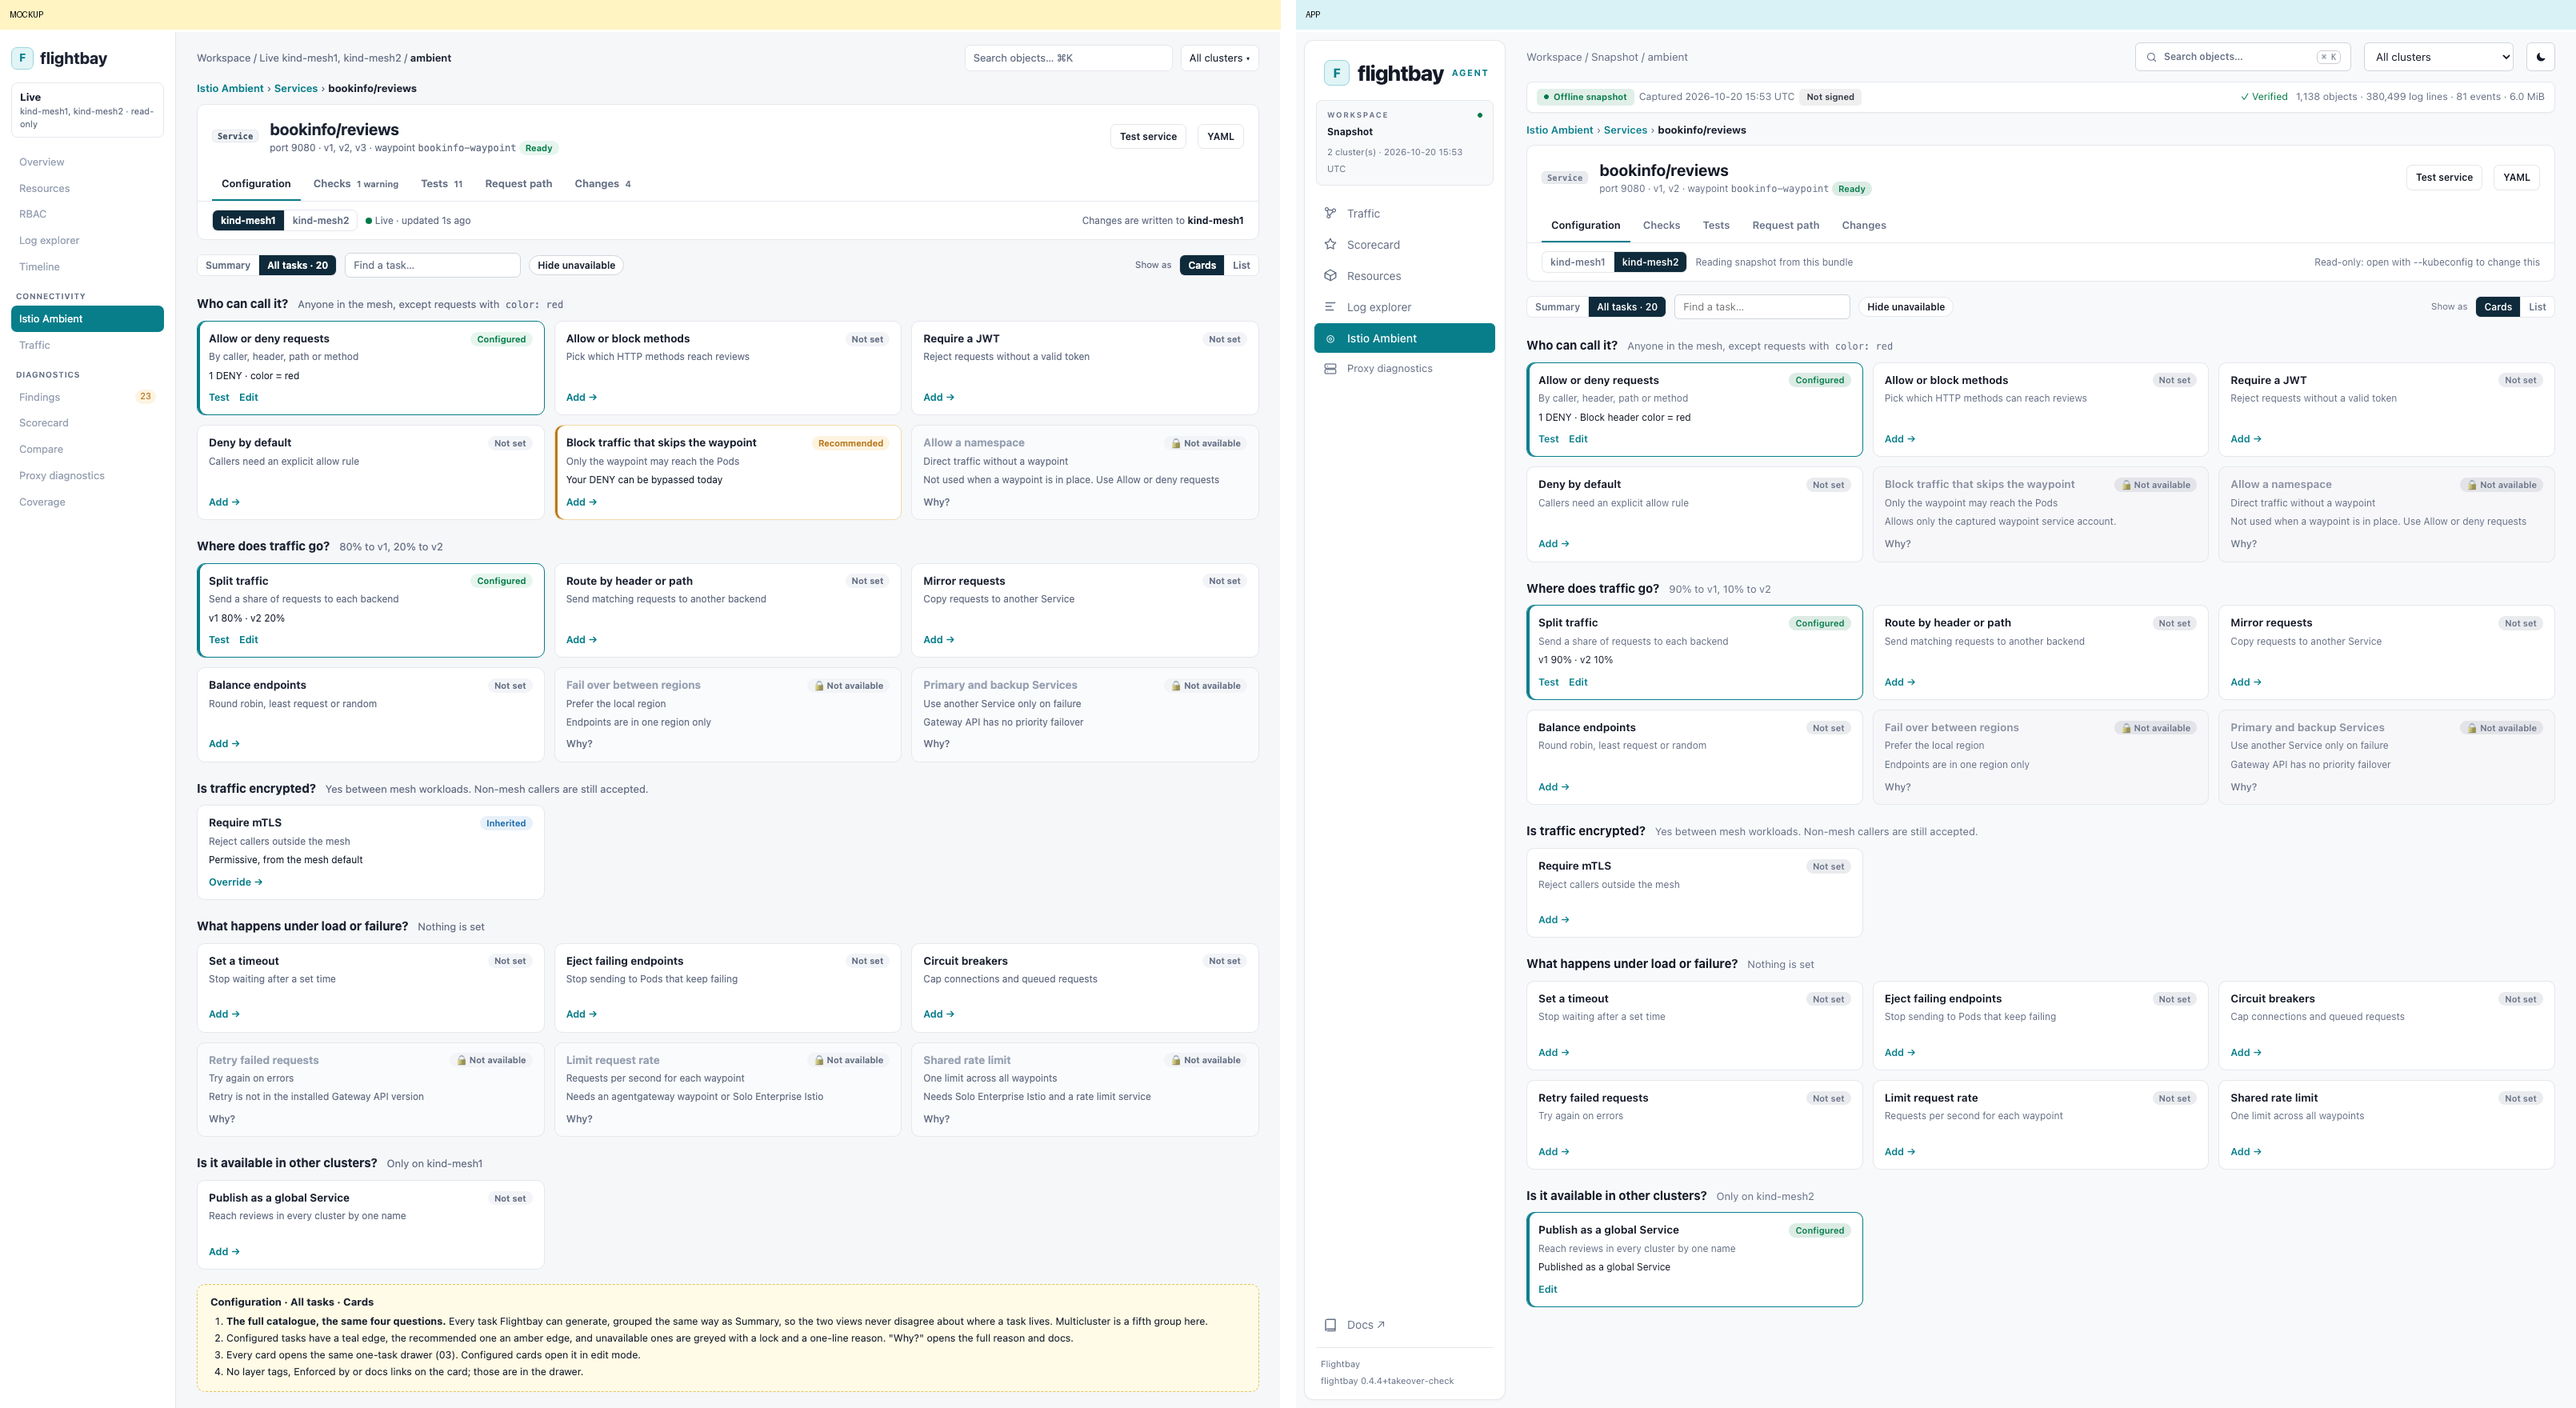
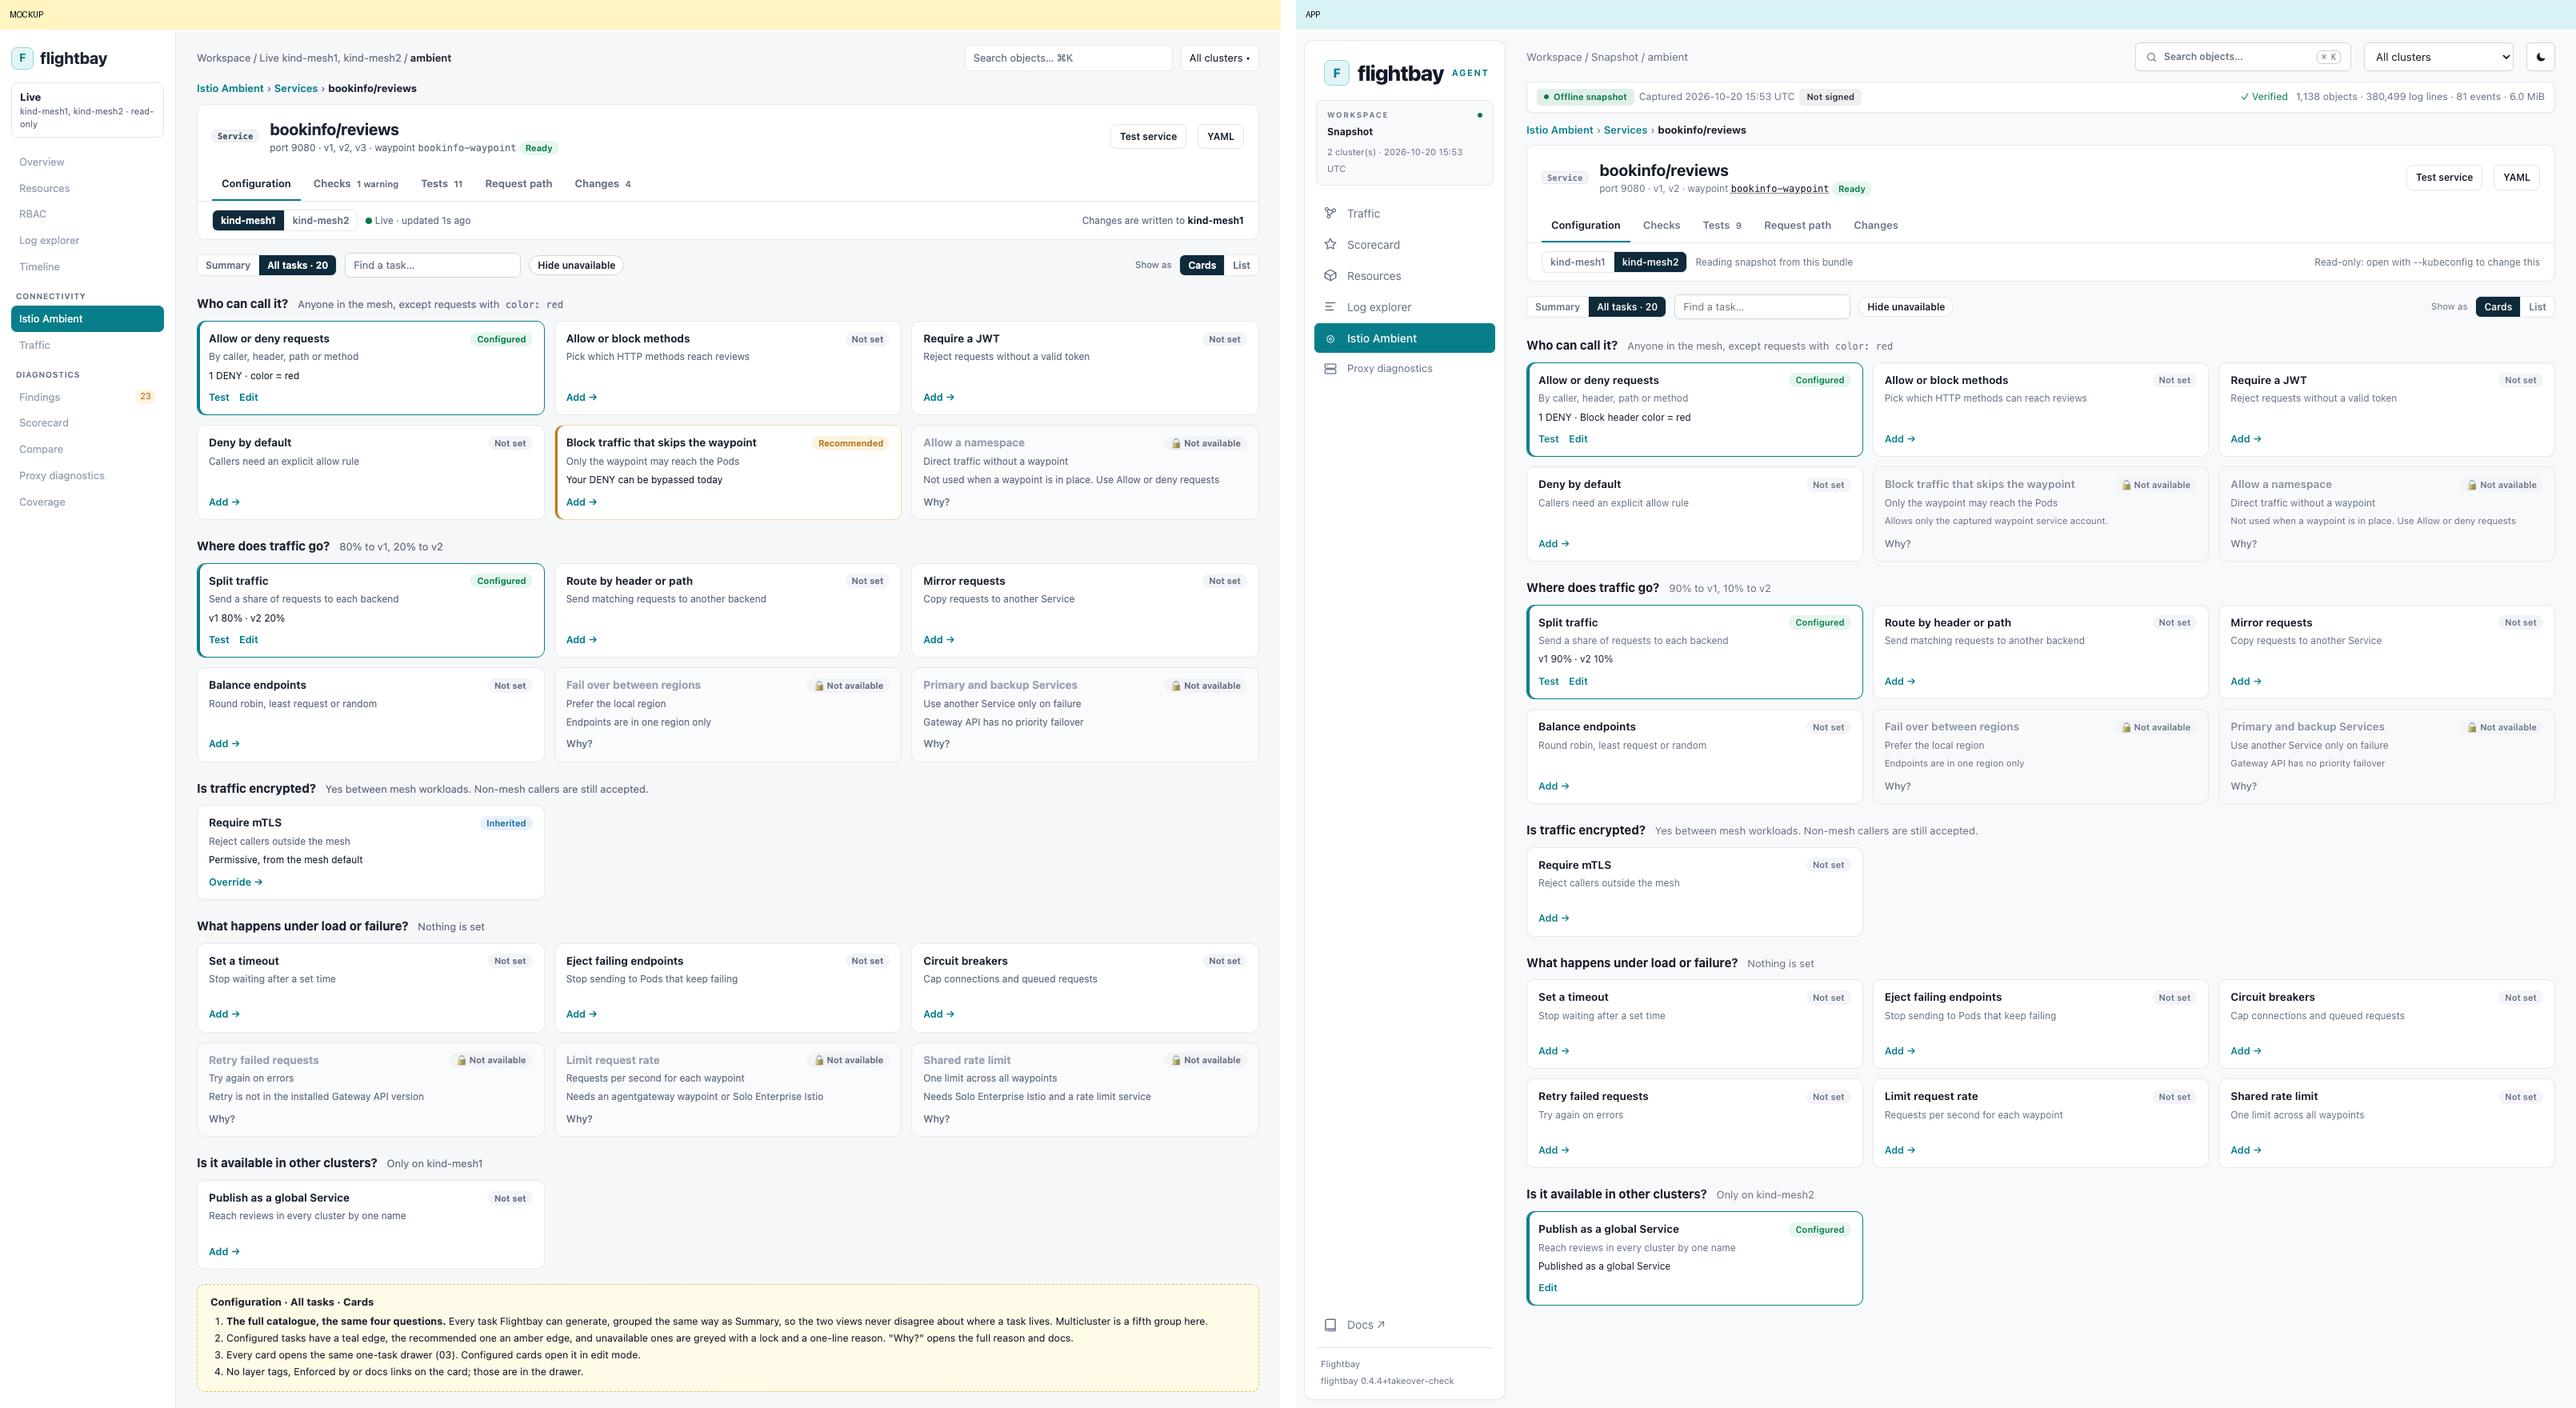
Ambient v2: waypoint popover, live-check fixes, pure-function tests, UX check script

diff --git a/web/ambient-service.js b/web/ambient-service.js
@@ -25,7 +25,7 @@ function am2Crumb(ref) {
 
 function am2WaypointMeta(h) {
   if (!h?.waypoint) return 'no waypoint';
-  return `waypoint <span class="am2-mono">${esc(h.waypoint.name)}</span> ${h.waypoint.ready ? am2Pill('ok', 'Ready') : `<span title="${esc(h.waypoint.reason)}">${am2Pill('warn', 'Not ready')}</span>`}`;
+  return `waypoint <span class="am2-whywrap"><a href="#" class="am2-mono am2-wplink" data-am2-wp>${esc(h.waypoint.name)}</a><div class="am2-pop am2-wppop" hidden><div class="am2-pop-i"><b>${esc(h.waypoint.namespace)}/${esc(h.waypoint.name)}</b><div>${h.waypoint.ready ? 'Accepted and programmed.' : esc(h.waypoint.reason || 'Not ready.')}</div></div><div style="margin-top:8px"><a class="am2-lnk" href="${am2Hash({...am2Route(), drawer: 'add:waypoint'})}">Change waypoint…</a></div></div></span> ${h.waypoint.ready ? am2Pill('ok', 'Ready') : `<span title="${esc(h.waypoint.reason)}">${am2Pill('warn', 'Not ready')}</span>`}`;
 }
 
 function am2ChecksLabel(data, ref) {
@@ -110,6 +110,7 @@ function am2Card(cfg, g, ctx) {
     else if (t.hint && t.status === 'configured' && !hint) hint = `<div class="am2-hint"><span>!</span><span style="flex:1">${esc(t.hint)}</span></div>`;
   }
   for (const o of cfg.other || []) if (o.group === g.id) items.push({html: `<div class="am2-item">${am2Pill('mut', 'Other')}<div class="am2-nm"><div class="am2-l">Other configuration</div><div class="am2-s">${esc(o.ref?.kind)} · ${esc(o.ref?.name)}</div></div><a class="am2-lnk" href="#" data-am2-open='${esc(JSON.stringify(o.ref))}'>Open</a></div>`});
+  if (g.id === 'access' && !cfg.header?.waypoint && !hint) hint = `<div class="am2-hint"><span>!</span><span style="flex:1">L7 rules need a waypoint.</span><a class="am2-lnk" href="${am2Hash({...ctx.route, drawer: 'add:waypoint'})}">Set one up →</a></div>`;
   const order = AM2_ADD_ORDER[g.id] || [];
   const addable = order.map(id => tasks.find(t => t.id === id)).filter(t => t && !['unavailable', 'needs-waypoint', 'recommended'].includes(t.status) && !(t.status === 'configured' && t.id !== 'access-rule' && t.id !== 'timeouts'));
   const shown = addable.slice(0, 3), more = addable.length > 3;
@@ -235,6 +236,8 @@ function am2ServiceAfter(route) {
     if (t.closest('[data-am2-yaml]')) { openObject({...svcObj(), kind: 'Service'}, 'yaml'); return; }
     const open = t.closest('[data-am2-open]');
     if (open) { e.preventDefault(); openObject(JSON.parse(open.dataset.am2Open)); return; }
+    const wp = t.closest('[data-am2-wp]');
+    if (wp) { e.preventDefault(); const pop = wp.parentElement.querySelector('.am2-pop'), was = pop.hidden; root.querySelectorAll('.am2-pop').forEach(p => { p.hidden = true; }); pop.hidden = !was; return; }
     const why = t.closest('[data-am2-why]');
     if (why) { e.preventDefault(); const pop = why.parentElement.querySelector('.am2-pop'); const was = pop.hidden; root.querySelectorAll('.am2-pop').forEach(p => p.hidden = true); pop.hidden = !was; return; }
     if (!t.closest('.am2-whywrap')) root.querySelectorAll('.am2-pop').forEach(p => p.hidden = true);

diff --git a/web/bookinfo-demo.js b/web/bookinfo-demo.js
@@ -66,7 +66,7 @@ async function bdRun(fn){if(BD.busy)return;BD.busy=true;BD.error='';try{await re
 async function bdRefresh(){BD.catalog=await api('api/ambient/bookinfo',{namespace:BD.namespace});S.ambient.inventory=null;RP.options=null;}
 function bookinfoAfter(){
   bdWireResources();
-  document.querySelectorAll('[data-amtab]').forEach(b=>b.onclick=()=>{S.ambient.tab=b.dataset.amtab;render();});$('#am-start-new').onclick=()=>amClear(true);$('#am-refresh').onclick=()=>bdRun(async()=>{await bdRefresh();});
+  document.querySelectorAll('[data-amtab]').forEach(b=>b.onclick=()=>{S.ambient.tab=b.dataset.amtab;render();});if($('#am-start-new'))$('#am-start-new').onclick=()=>amClear(true);if($('#am-refresh'))$('#am-refresh').onclick=()=>bdRun(async()=>{await bdRefresh();});
   $('#bd-namespace').onchange=e=>{BD.namespace=e.target.value.trim();try{localStorage.setItem('flightbay.bookinfo.namespace',BD.namespace);}catch{}BD.catalog=null;bdInvalidate();render();};document.querySelectorAll('[data-bdcluster]').forEach(b=>b.onchange=()=>{BD.selected[b.dataset.bdcluster]=b.checked;bdInvalidate();if(!BD.catalog.clusters.filter(c=>BD.selected[c.cluster]).every(c=>c.globalSupported))BD.global=false;render();});
   document.querySelectorAll('[name="bd-waypoint-scope"]').forEach(b=>b.onchange=()=>{if(b.checked){BD.waypointScope=b.value;bdInvalidate();render();}});$('#bd-waypoint-name').onchange=e=>{BD.waypointName=e.target.value.trim();bdInvalidate();render();};
   document.querySelectorAll('[data-bdclass]').forEach(b=>b.onchange=()=>{BD.classes[b.dataset.bdclass]=b.value;bdInvalidate();render();});$('#bd-global').onchange=e=>{BD.global=e.target.checked;bdInvalidate();render();};$('#bd-traffic').onchange=e=>{BD.traffic=e.target.checked;bdInvalidate();render();};

diff --git a/web/ambient-policies.js b/web/ambient-policies.js
@@ -8,7 +8,7 @@ const AM2_MANAGED = {flightbay: ['tl', 'Flightbay'], helm: ['mut', 'Helm'], argo
 const AM2_STATE = {applied: ['ok', 'Applied'], accepted: ['ok', 'Accepted'], programmed: ['ok', 'Programmed'], missing: ['mut', 'Missing'], differs: ['warn', 'Differs'], 'not-enforced': ['warn', 'Not enforced']};
 
 function am2MidEllipsis(name, max = 32) {
-  return name.length <= max ? name : name.slice(0, 21) + '…' + name.slice(-8);
+  return name.length <= max ? name : name.slice(0, 19) + '…' + name.slice(-10);
 }
 
 function am2PolQuery() {

diff --git a/web/ambient-v2.css b/web/ambient-v2.css
@@ -191,3 +191,4 @@ color:var(--am2-ink);font:13px/1.45 var(--sans)}
 .am2 td.am2-mono{white-space:nowrap}
 .am2-grid>div:first-child{display:flex;flex-direction:column}.am2-grid>div:first-child>.am2-card:last-child{flex:1}
 #modal-root .modal-backdrop{z-index:90}
+.am2-wppop{right:auto;left:0;bottom:auto;top:calc(100% + 6px);width:300px}.am2 a.am2-wplink{color:var(--am2-ink);text-decoration:underline dotted}

diff --git a/docs/ux/ambient/review/04-authorizationpolicy-tests/report.md b/docs/ux/ambient/review/04-authorizationpolicy-tests/report.md
@@ -1,0 +1,36 @@
+# 04-authorizationpolicy-tests
+
+- URL: `http://127.0.0.1:47800/?token=ambient-ui-test#ambient?obj=kind-mesh2/AuthorizationPolicy/bookinfo/flightbay-test-f4a039e06a0956fc-deny-rule&otab=tests`
+- Mockup: `/Users/thomasorourke/code/solo/flightbay/docs/ux/ambient/04-authorizationpolicy-tests.png`
+- Side by side: `/Users/thomasorourke/code/solo/flightbay/docs/ux/ambient/ux-review/04-authorizationpolicy-tests/side-by-side.png`
+
+| Result | Severity | Role | Label |
+|---|---|---|---|
+| ok | should | pill | DENY |
+| ok | must | button | YAML |
+| ok | must | button | Edit |
+| MISSING | must | button | Undo |
+| ok | must | tab | Summary |
+| ok | must | tab | Tests |
+| ok | must | tab | Explain a request |
+| ok | must | tab | History |
+| ok | must | heading | The rule, in words |
+| MISSING | must | heading | Other policies that also decide for reviews |
+| ok | should | pill | ALLOW |
+| ok | must | heading | Send test requests from |
+| ok | must | chip | Temporary pod |
+| ok | must | chip | Outside the mesh |
+| ok | must | heading | Run on |
+| ok | must | heading | Test cases |
+| ok | must | button | + Add case |
+| ok | must | button | Generate from rule |
+| ok | must | button | ▶ Run all |
+| ok | must | column | Request |
+| ok | must | column | Why this case |
+| ok | must | column | Expect |
+| ok | must | column | Got |
+| ok | must | column | Decided by |
+| ok | must | button | Log |
+
+Labels the app shows that are not in the mockup are not detected by this script.
+Compare the side-by-side image for extra elements, layout, spacing and visual weight.

diff --git a/docs/ux/ambient/review/05-httproute-tests/report.md b/docs/ux/ambient/review/05-httproute-tests/report.md
@@ -1,0 +1,28 @@
+# 05-httproute-tests
+
+- URL: `http://127.0.0.1:47800/?token=ambient-ui-test#ambient?obj=kind-mesh2/HTTPRoute/bookinfo/flightbay-test-ff550919261455fe-route&otab=tests`
+- Mockup: `/Users/thomasorourke/code/solo/flightbay/docs/ux/ambient/05-httproute-tests.png`
+- Side by side: `/Users/thomasorourke/code/solo/flightbay/docs/ux/ambient/ux-review/05-httproute-tests/side-by-side.png`
+
+| Result | Severity | Role | Label |
+|---|---|---|---|
+| ok | must | button | YAML |
+| ok | must | button | Edit split |
+| MISSING | must | button | Undo |
+| ok | must | tab | Summary |
+| ok | must | tab | Tests |
+| ok | must | tab | Explain a request |
+| ok | must | tab | History |
+| ok | must | heading | Rule 1 · split |
+| ok | must | button | ▶ Run |
+| ok | must | heading | Match cases |
+| ok | must | button | + Add case |
+| ok | must | column | Request |
+| ok | must | column | Expect |
+| ok | must | column | Got |
+| ok | must | heading | Other checks on this route |
+| ok | must | button | Copy → |
+| ok | must | button | + Add |
+
+Labels the app shows that are not in the mockup are not detected by this script.
+Compare the side-by-side image for extra elements, layout, spacing and visual weight.
